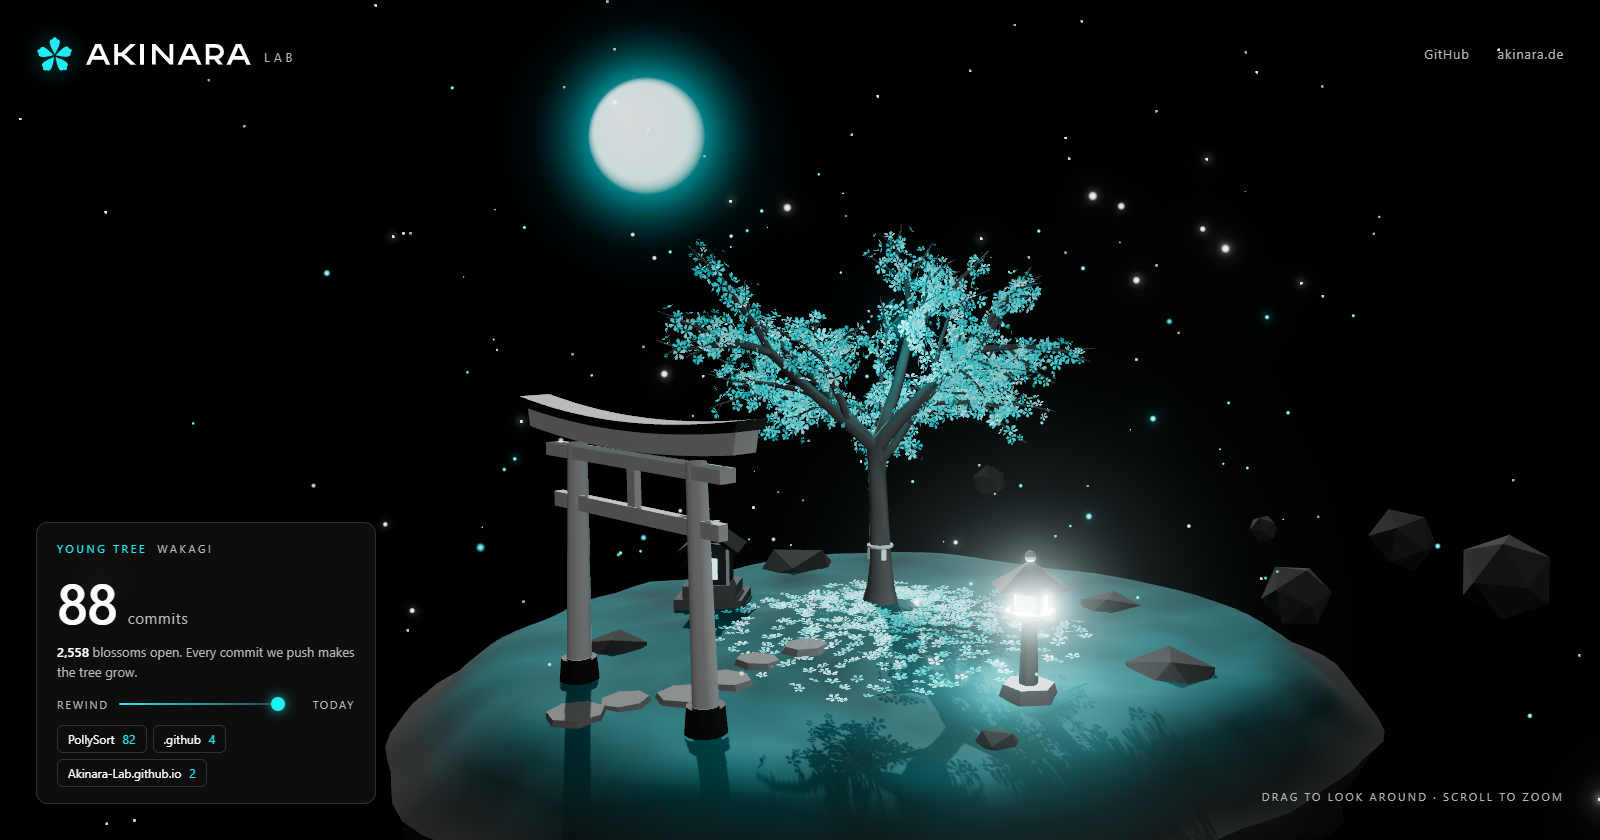
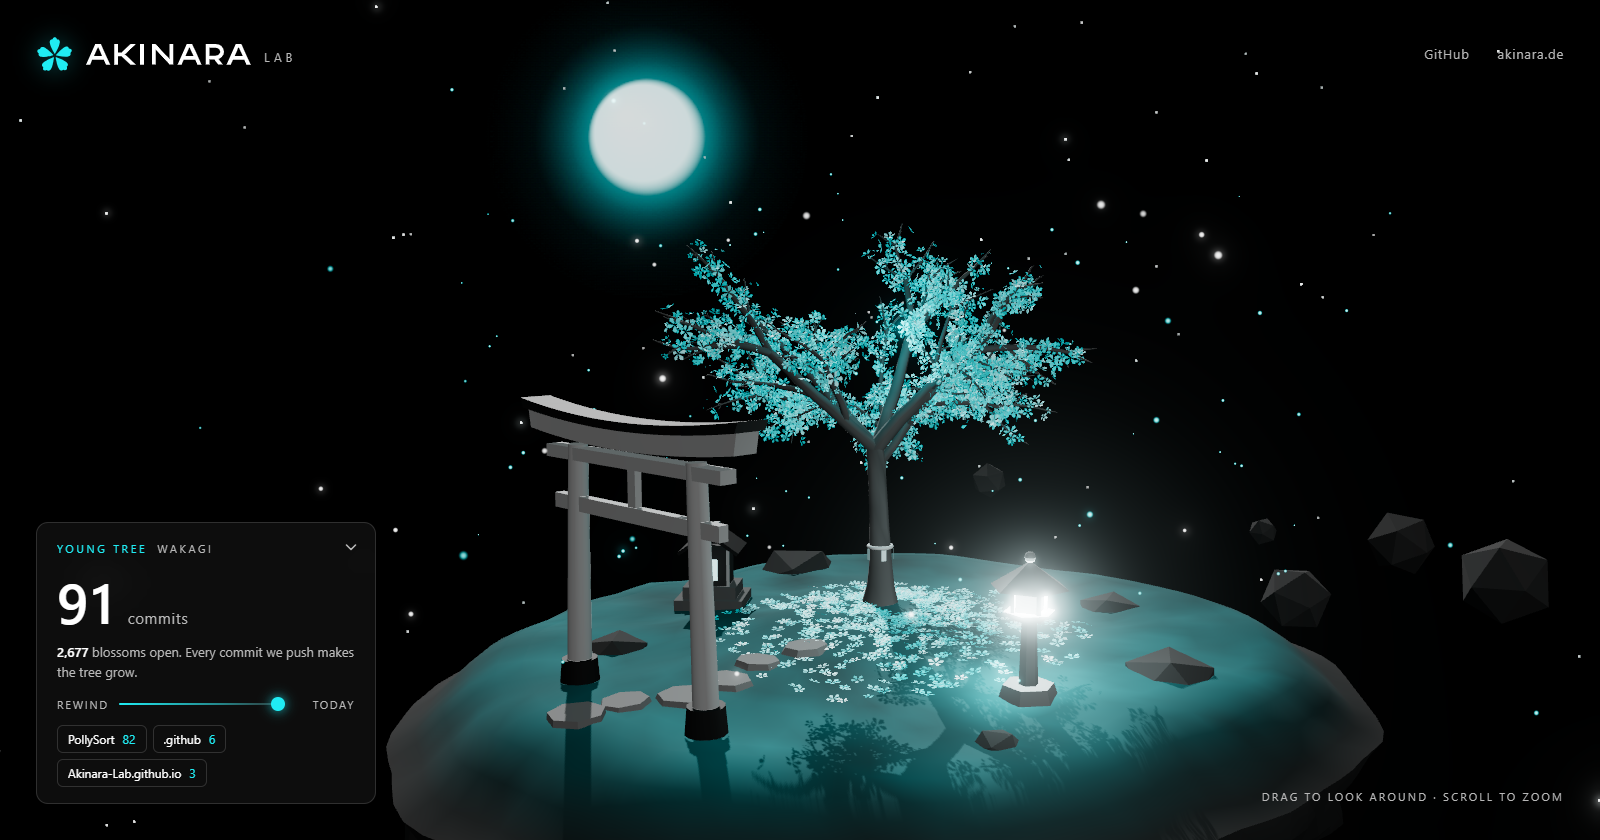
Make the info panel collapsible
An arrow in the corner folds the panel down to a small chip showing only
the commit count, so the scene can be watched undisturbed. With the panel
folded the scene glides to the centre. The choice is remembered in the
browser, and ?calm opens the page already folded.

diff --git a/src/main.js b/src/main.js
@@ -100,6 +100,58 @@ function start() {
     camera.position.set(0.72, 0.11, 0.69).normalize().multiplyScalar(dist).add(controls.target);
   }
 
+  // --- info panel ------------------------------------------------------------
+  // The panel folds down to a small chip so the scene can be watched
+  // undisturbed. The choice is remembered for the next visit.
+  const panel = $('panel');
+  const toggle = $('panel-toggle');
+  let panelOpen = true;
+  let panelShift = 1; // 1 = scene moved aside for the open panel, 0 = centred
+  function setPanel(open, remember) {
+    panelOpen = open;
+    panel.classList.toggle('collapsed', !open);
+    document.body.classList.toggle('calm', !open);
+    const label = open ? 'Hide details' : 'Show details';
+    toggle.setAttribute('aria-expanded', String(open));
+    toggle.setAttribute('aria-label', label);
+    toggle.title = label;
+    if (!remember) return;
+    try {
+      localStorage.setItem('panel', open ? 'open' : 'closed');
+    } catch {
+      /* private mode: the choice just is not remembered */
+    }
+  }
+  toggle.addEventListener('click', (event) => {
+    event.stopPropagation();
+    setPanel(!panelOpen, true);
+  });
+  panel.addEventListener('click', () => {
+    if (!panelOpen) setPanel(true, true);
+  });
+  // ?calm opens the page with the panel already folded
+  let startFolded = query.has('calm');
+  try {
+    if (!query.has('still') && localStorage.getItem('panel') === 'closed') startFolded = true;
+  } catch {
+    /* storage blocked: start with the panel open */
+  }
+  if (startFolded) {
+    setPanel(false, false);
+    panelShift = 0;
+  }
+
+  // on wide screens, move the scene a little to the right of the info panel
+  // and on phones a little above it; with the panel folded it sits centred
+  function applyViewOffset() {
+    const w = window.innerWidth;
+    const h = window.innerHeight;
+    if (w > 900) camera.setViewOffset(w, h, -w * 0.05 * panelShift, 0, w, h);
+    else if (h > w) camera.setViewOffset(w, h, 0, h * 0.07 * panelShift, w, h);
+    else camera.clearViewOffset();
+    camera.updateProjectionMatrix();
+  }
+
   function resize() {
     const w = window.innerWidth;
     const h = window.innerHeight;
@@ -109,12 +161,7 @@ function start() {
     composer.setPixelRatio(pr);
     composer.setSize(w, h);
     camera.aspect = w / h;
-    // on wide screens, move the scene a little to the right of the info panel
-    // and on phones a little above it
-    if (w > 900) camera.setViewOffset(w, h, -w * 0.05, 0, w, h);
-    else if (h > w) camera.setViewOffset(w, h, 0, h * 0.07, w, h);
-    else camera.clearViewOffset();
-    camera.updateProjectionMatrix();
+    applyViewOffset();
     scenery.setPixelSize(h * pr * 0.11);
   }
   window.addEventListener('resize', resize);
@@ -239,6 +286,14 @@ function start() {
         if (!touched && !reducedMotion) controls.autoRotate = true;
       }
       applyAge();
+    }
+
+    // glide the scene to the centre when the panel folds, and back
+    const shiftGoal = panelOpen ? 1 : 0;
+    if (panelShift !== shiftGoal) {
+      panelShift += (shiftGoal - panelShift) * (reducedMotion ? 1 : 1 - Math.exp(-dt * 3));
+      if (Math.abs(shiftGoal - panelShift) < 0.002) panelShift = shiftGoal;
+      applyViewOffset();
     }
 
     // keep the crown in frame as the tree gets taller

diff --git a/style.css b/style.css
@@ -26,7 +26,7 @@ html, body {
 }
 
 a { color: inherit; text-decoration: none; }
-a:focus-visible, input:focus-visible { outline: 2px solid var(--cyan); outline-offset: 3px; border-radius: 4px; }
+a:focus-visible, input:focus-visible, button:focus-visible { outline: 2px solid var(--cyan); outline-offset: 3px; border-radius: 4px; }
 
 #scene {
   position: fixed;
@@ -40,6 +40,7 @@ a:focus-visible, input:focus-visible { outline: 2px solid var(--cyan); outline-o
 #scene:active { cursor: grabbing; }
 #scene { opacity: 0; transition: opacity 1.4s ease; }
 .still #scene { transition: none; }
+.still .panel { animation: none; }
 .ready #scene { opacity: 1; }
 
 header {
@@ -77,6 +78,49 @@ nav a:hover { color: var(--cyan); border-color: var(--cyan); }
   backdrop-filter: blur(14px);
 }
 .panel p { margin: 0; }
+.panel { animation: panel-open 0.35s ease; }
+
+/* the panel folds down to a small chip, so the scene can be watched undisturbed */
+.toggle {
+  position: absolute;
+  top: 8px;
+  right: 8px;
+  display: grid;
+  place-items: center;
+  width: 32px;
+  height: 32px;
+  padding: 0;
+  border: 0;
+  border-radius: 8px;
+  background: transparent;
+  color: var(--muted);
+  cursor: pointer;
+  transition: color 0.2s, background-color 0.2s;
+}
+.toggle:hover { color: var(--cyan); background: rgba(255, 255, 255, 0.06); }
+.toggle svg { width: 16px; height: 16px; fill: none; stroke: currentColor; stroke-width: 1.6; stroke-linecap: round; stroke-linejoin: round; transition: transform 0.3s ease; }
+
+.panel.collapsed {
+  display: flex;
+  align-items: center;
+  gap: 6px;
+  width: auto;
+  padding: 4px 4px 4px 16px;
+  cursor: pointer;
+  animation: panel-close 0.35s ease;
+}
+.panel.collapsed .stage, .panel.collapsed .body { display: none; }
+.panel.collapsed .count { margin-top: 0 !important; font-size: 11px; letter-spacing: 0.2em; text-transform: uppercase; }
+.panel.collapsed .count strong { font-size: 17px; letter-spacing: 0; }
+.panel.collapsed .toggle { position: static; order: 2; }
+.panel.collapsed .toggle svg { transform: rotate(180deg); }
+.calm .hint { opacity: 0; }
+
+@keyframes panel-open { from { opacity: 0; transform: translateY(8px); } }
+@keyframes panel-close { from { opacity: 0; transform: translateY(8px); } }
+@media (prefers-reduced-motion: reduce) {
+  .panel, .panel.collapsed { animation: none; }
+}
 
 .stage { display: flex; align-items: baseline; gap: 10px; color: var(--muted); font-size: 11px; letter-spacing: 0.24em; text-transform: uppercase; }
 #stage-name { color: var(--cyan); }

diff --git a/index.html b/index.html
@@ -31,16 +31,21 @@
     </nav>
   </header>
 
-  <main class="panel">
+  <main class="panel" id="panel">
+    <button id="panel-toggle" class="toggle" type="button" aria-expanded="true" aria-controls="panel-body" aria-label="Hide details" title="Hide details">
+      <svg viewBox="0 0 16 16" aria-hidden="true"><path d="M3.5 6 8 10.5 12.5 6"/></svg>
+    </button>
     <p class="stage"><span id="stage-name">seed</span><span id="stage-text">tane</span></p>
     <p class="count"><strong id="commits">0</strong> commits</p>
-    <p class="sub"><strong id="blossoms">0</strong> blossoms open. Every commit we push makes the tree grow.</p>
-    <label class="rewind">
-      <span>Rewind</span>
-      <input id="rewind" type="range" min="0" max="1" value="1" step="1" aria-label="Rewind the tree to an earlier commit">
-      <span id="rewind-label">today</span>
-    </label>
-    <div id="repos" class="repos"></div>
+    <div id="panel-body" class="body">
+      <p class="sub"><strong id="blossoms">0</strong> blossoms open. Every commit we push makes the tree grow.</p>
+      <label class="rewind">
+        <span>Rewind</span>
+        <input id="rewind" type="range" min="0" max="1" value="1" step="1" aria-label="Rewind the tree to an earlier commit">
+        <span id="rewind-label">today</span>
+      </label>
+      <div id="repos" class="repos"></div>
+    </div>
   </main>
 
   <p class="hint">drag to look around · scroll to zoom</p>

diff --git a/README.md b/README.md
@@ -22,7 +22,10 @@ roughly 110 commits), grown tree (about 540), old tree (about 2,700) and sacred
 tree.
 
 The slider rewinds the tree to any earlier commit count.
-`?commits=5000` previews any size, `?still` skips the animation.
+The arrow in the corner of the panel folds it down to a small chip, so the scene
+can be watched undisturbed; the choice is remembered in the browser.
+`?commits=5000` previews any size, `?still` skips the animation, `?calm` opens
+the page with the panel already folded.
 
 ## Where the number comes from
 
